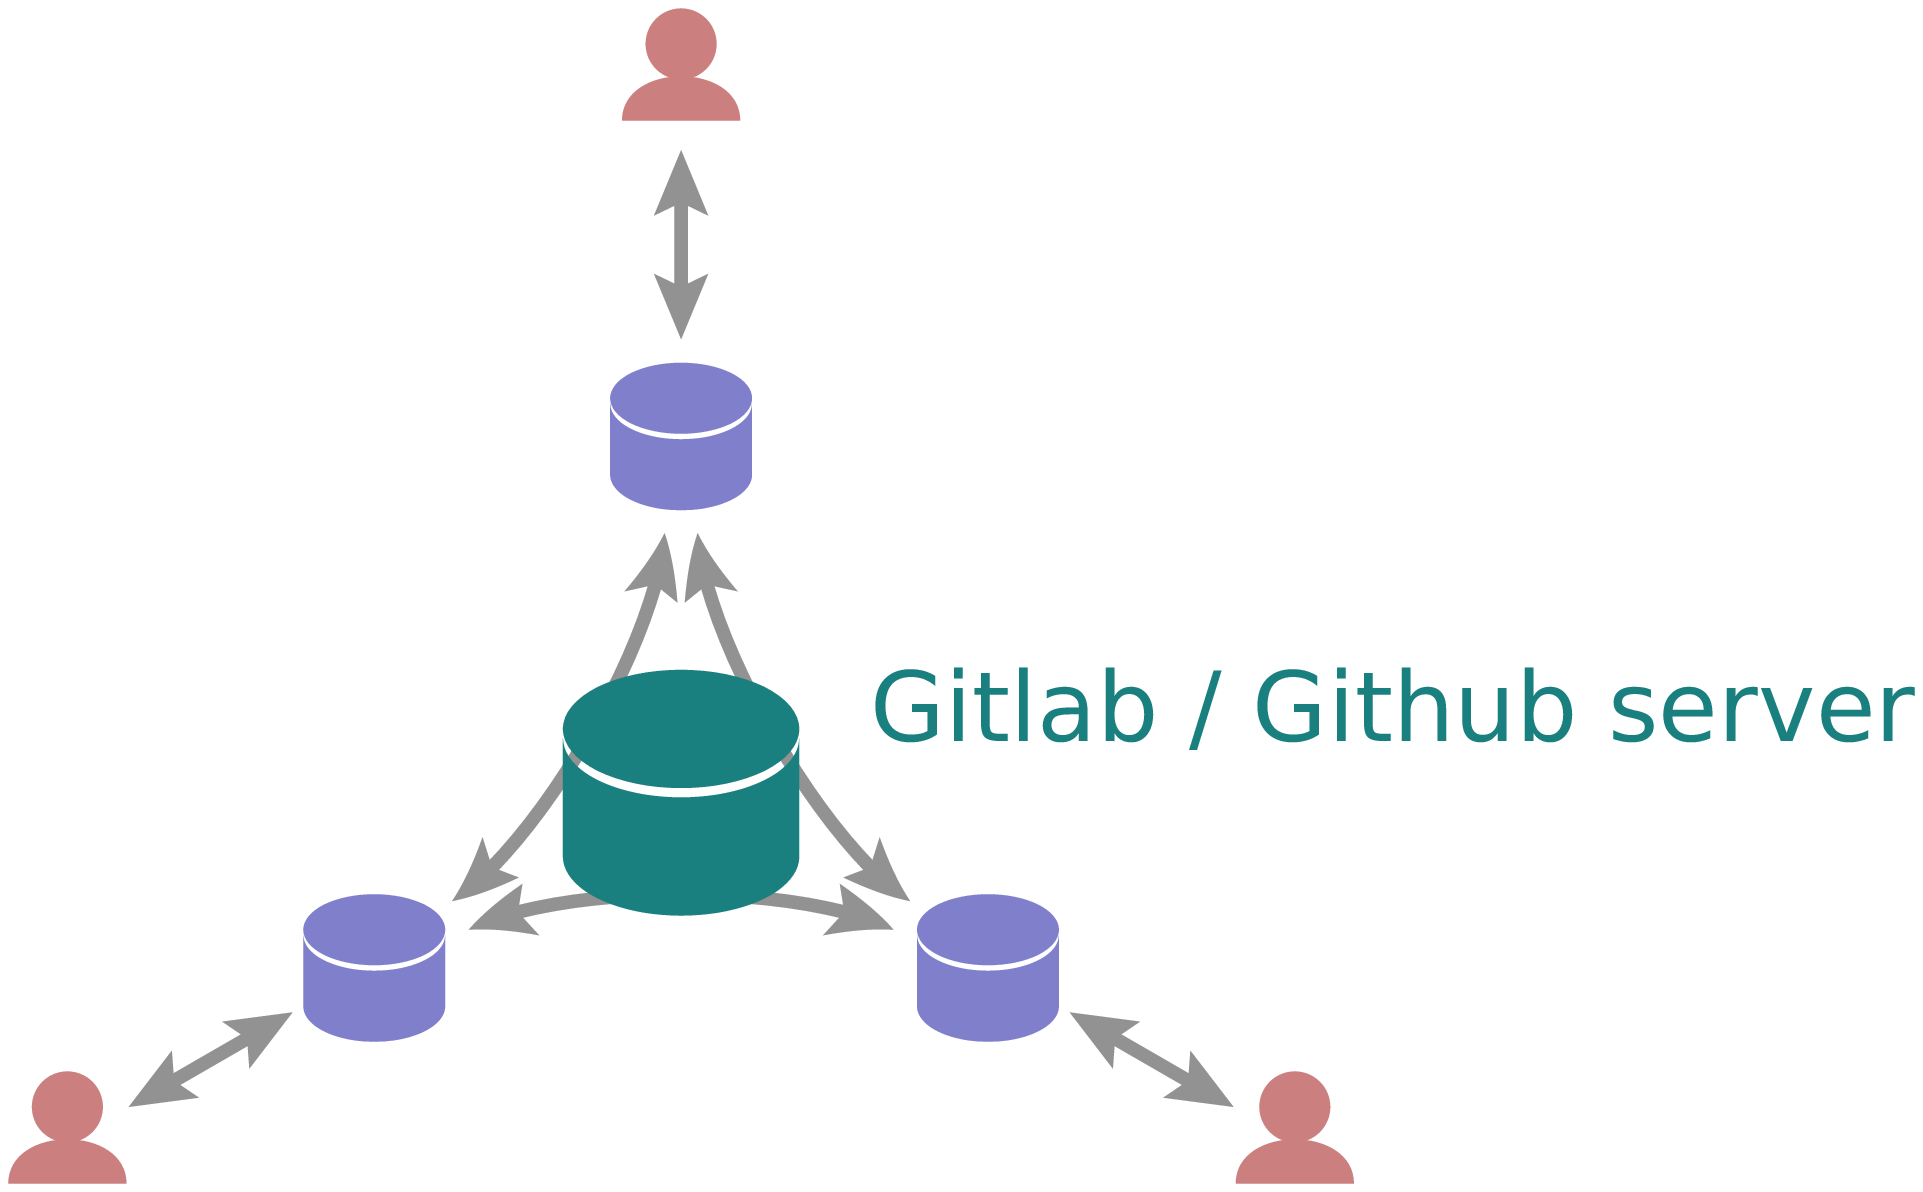
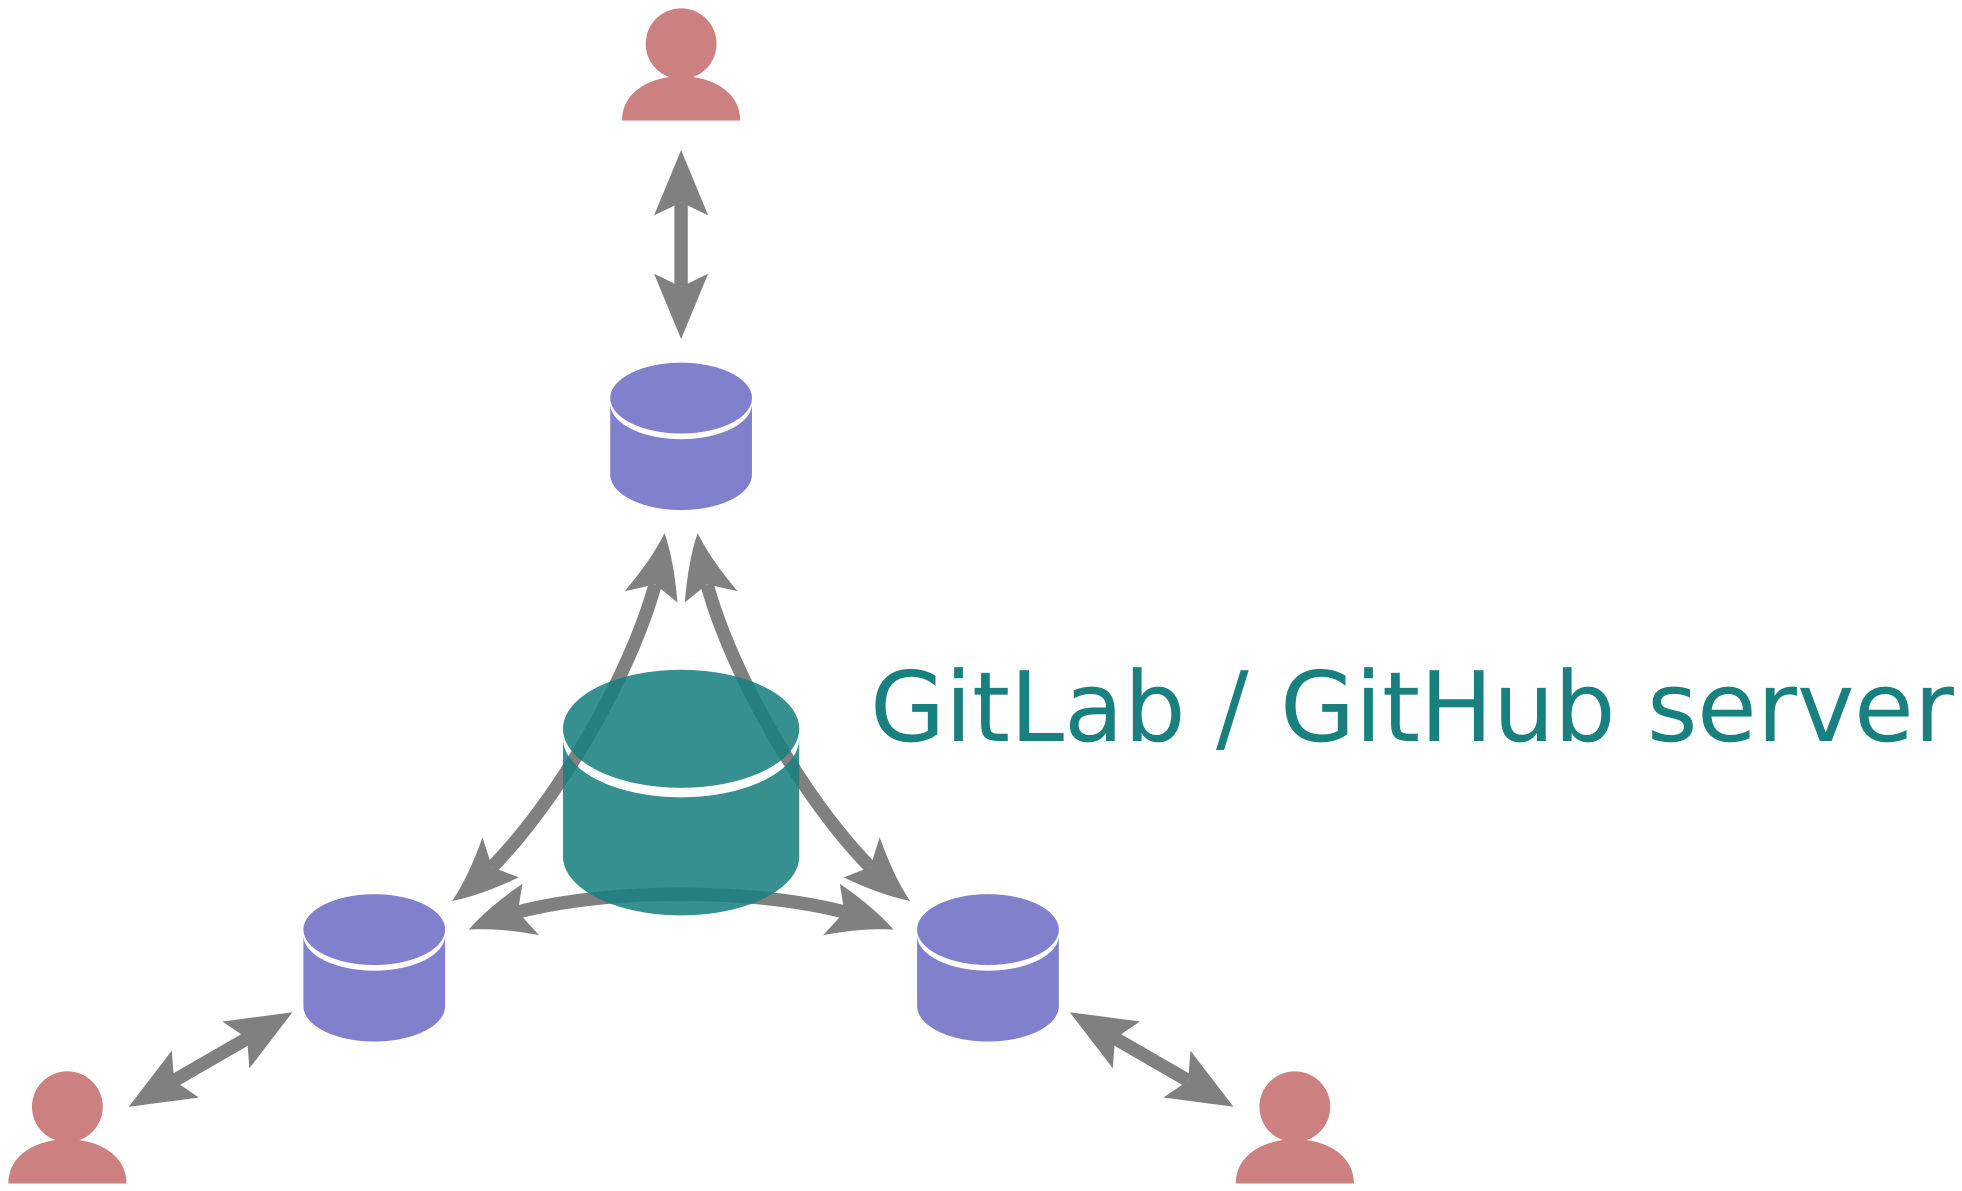
capitalization corrected in figure

diff --git a/presentation/images/src/dvcs-github.py b/presentation/images/src/dvcs-github.py
@@ -1,0 +1,62 @@
+from math import sin, cos, pi
+from pyx import canvas, color, deco, path, style, text, trafo, unit
+
+
+def server(r, servercolor=color.rgb(0.5, 0.5, 0.8), transparency=0):
+    c = canvas.canvas()
+    c.fill(path.circle(0, 0, r),
+           [servercolor, color.transparency(transparency),
+            trafo.scale(1, 0.5).translated(0, 0.5*r)])
+    h = 2*r
+    p = path.path(path.moveto(-r, 0),
+                  path.lineto(-r, -h),
+                  path.arc(0, -h, r, 180, 0),
+                  path.lineto(r, 0),
+                  path.arcn(0, 0, r, 0, 180),
+                  path.closepath())
+    c.fill(p, [servercolor, color.transparency(transparency),
+               trafo.scale(1, 0.5).translated(0, 0.5*r-0.08*r)])
+    return c
+
+
+def client(clientcolor=color.rgb(0.8, 0.5, 0.5)):
+    c = canvas.canvas()
+    r = 0.3
+    c.fill(path.circle(0, 0, r), [clientcolor])
+    r = 0.5
+    p = path.path(path.moveto(-r, 0),
+                  path.curveto(-r, r, r, r, r, 0),
+                  path.closepath())
+    c.fill(p, [clientcolor, trafo.translate(0, -1.3*r)])
+    return c
+
+
+arrowcolor = color.grey(0.5)
+
+text.set(text.LatexRunner)
+text.preamble(r'\usepackage{arev}\usepackage[T1]{fontenc}')
+unit.set(xscale=1.3)
+
+c = canvas.canvas()
+pos = [(0, 1), (sin(2*pi/3), cos(2*pi/3)), (-sin(2*pi/3), cos(2*pi/3))]
+sfak = 1.5
+for x, y in pos:
+    c.insert(server(0.3), [trafo.translate(sfak*x, sfak*y)])
+    c.insert(client(), [trafo.scale(0.5).translated(3*x, 3*y+0.15)])
+    c.stroke(path.line(2.7*x, 2.7*y, 1.9*x, 1.9*y),
+             [arrowcolor, deco.earrow.large, deco.barrow.large,
+              style.linewidth.THick])
+for phi in (0, 120, 240):
+    c.stroke(path.curve(-sfak*sin(2*pi/3)+0.4, -0.5*sfak+0.15,
+                        -sfak*sin(2*pi/3)+0.8, -0.5*sfak+0.35,
+                        sfak*sin(2*pi/3)-0.8, -0.5*sfak+0.35,
+                        sfak*sin(2*pi/3)-0.4, -0.5*sfak+0.15),
+             [arrowcolor, deco.earrow.large, deco.barrow.large,
+              style.linewidth.THick, trafo.rotate(phi)])
+c.insert(server(0.5, color.hsb(0.5, 0.8, 0.5), 0.13))
+c.text(0.8, 0.2, 'GitLab / GitHub server',
+       [color.hsb(0.5, 0.8, 0.5), text.size.small])
+
+c.writePDFfile()
+c.writeGSfile(device="png16m", resolution=600) # use gimp to convert to png in case of transparency
+                                               # problems
